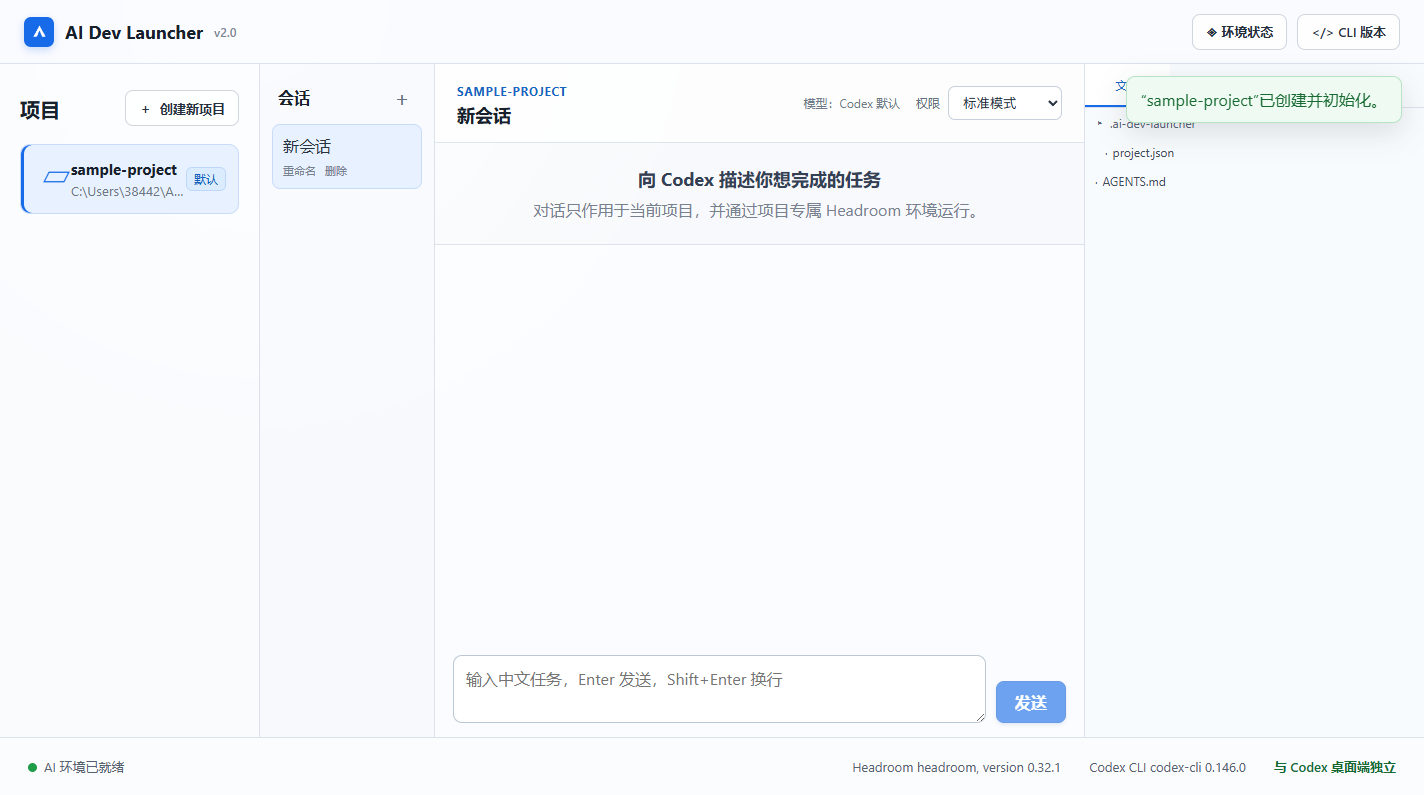
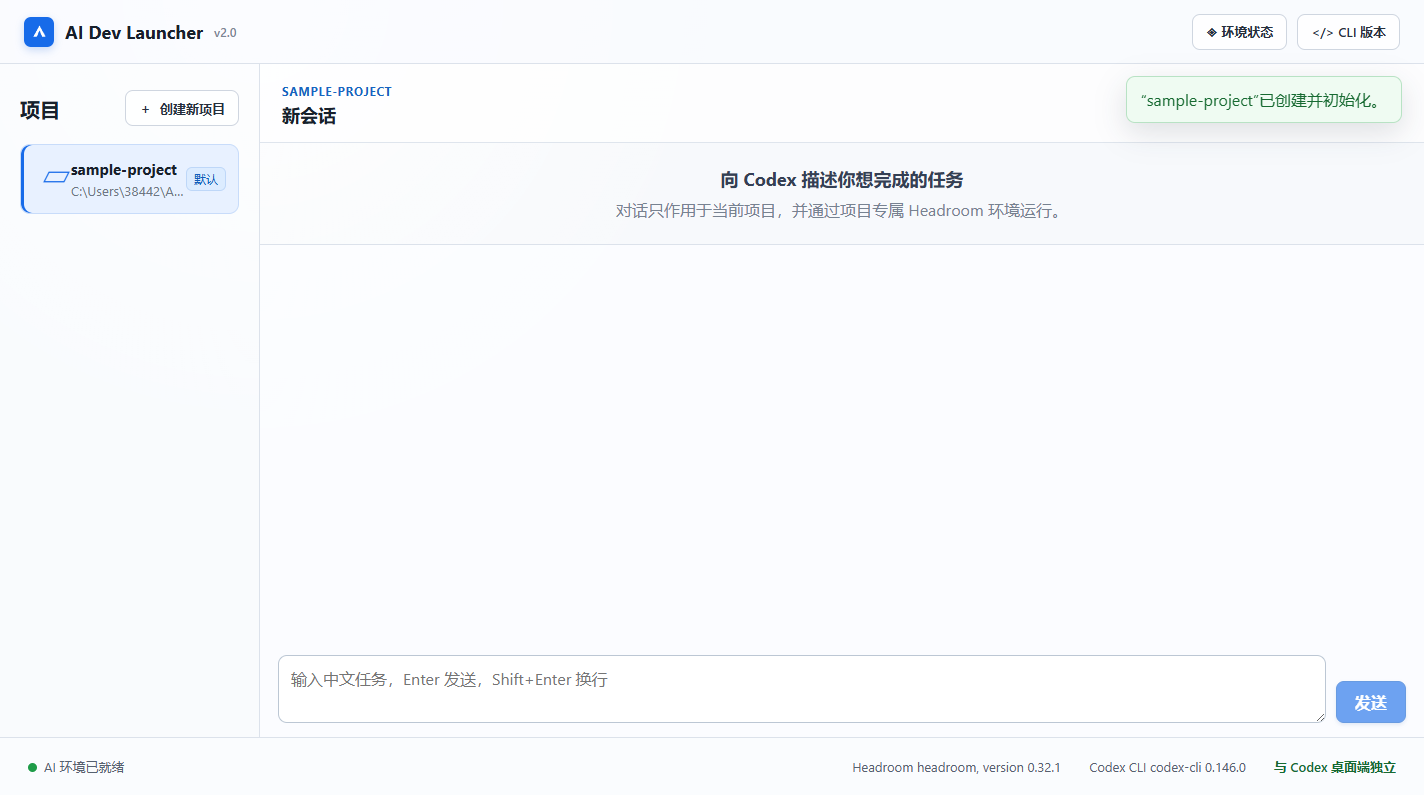
refactor: simplify v2 conversation workspace

diff --git a/desktop/src/components/ChatWorkspace.vue b/desktop/src/components/ChatWorkspace.vue
@@ -1,7 +1,6 @@
 <script setup lang="ts">
 import { computed, onMounted, onUnmounted, ref, watch } from "vue";
 import type { ChatEvent, Project, RuntimeStatus } from "../types";
-import DeveloperPanel from "./DeveloperPanel.vue";
 
 type Permission = "standard" | "full";
 interface Message { id: string; role: "user" | "assistant" | "tool" | "status"; text: string; }
@@ -14,7 +13,6 @@ const permission = ref<Permission>("standard");
 const runningTask = ref<string | null>(null);
 const runningSessionId = ref<string | null>(null);
 const error = ref("");
-const developerPanel = ref<InstanceType<typeof DeveloperPanel> | null>(null);
 let dispose: (() => void) | undefined;
 const active = computed(() => sessions.value.find((item) => item.id === activeId.value) ?? null);
 const storageKey = computed(() => `ai-dev-launcher:sessions:${props.project.path}`);
@@ -26,8 +24,6 @@ function load(): void {
   if (!sessions.value.length) newSession(); else activeId.value = sessions.value[0].id;
 }
 function newSession(): void { const item: Session = { id: uid(), name: "新会话", messages: [], updatedAt: new Date().toISOString() }; sessions.value.unshift(item); activeId.value = item.id; save(); }
-function renameSession(session: Session): void { const name = window.prompt("重命名会话", session.name); if (name?.trim()) { session.name = name.trim(); save(); } }
-function deleteSession(session: Session): void { sessions.value = sessions.value.filter((item) => item.id !== session.id); if (!sessions.value.length) newSession(); else if (activeId.value === session.id) activeId.value = sessions.value[0].id; save(); }
 function appendTo(session: Session | null, role: Message["role"], text: string): void { if (!session) return; session.messages.push({ id: uid(), role, text }); session.updatedAt = new Date().toISOString(); save(); }
 function append(role: Message["role"], text: string): void { appendTo(active.value, role, text); }
 function eventText(event: Record<string, unknown>): string | null {
@@ -40,7 +36,7 @@ function handleEvent(payload: ChatEvent): void {
   if (!target) return;
   if (payload.type === "error") { error.value = payload.message ?? "Codex 运行失败"; return; }
   if (payload.type === "log" && payload.text) { appendTo(target, "status", payload.text); return; }
-  if (payload.type === "complete") { runningTask.value = null; runningSessionId.value = null; if (payload.exit_code !== 0) error.value = `Codex 已退出，代码 ${payload.exit_code}`; save(); void developerPanel.value?.refresh(); return; }
+  if (payload.type === "complete") { runningTask.value = null; runningSessionId.value = null; if (payload.exit_code !== 0) error.value = `Codex 已退出，代码 ${payload.exit_code}`; save(); return; }
   const event = payload.event ?? {};
   const type = String(event.type ?? "");
   if (type === "thread.started" && typeof event.thread_id === "string") target.codexSessionId = event.thread_id;
@@ -77,12 +73,11 @@ onUnmounted(() => dispose?.());
 
 <template>
   <section class="chat-workspace">
-    <aside class="session-sidebar"><div class="session-heading"><strong>会话</strong><button class="icon-button" title="新建会话" @click="newSession">＋</button></div><div class="session-list"><button v-for="session in sessions" :key="session.id" :class="{ active: session.id === activeId }" @click="activeId = session.id"><span>{{ session.name }}</span><small><i @click.stop="renameSession(session)">重命名</i><i @click.stop="deleteSession(session)">删除</i></small></button></div></aside>
     <div class="conversation"><header class="conversation-header"><div><span class="workspace-kicker">{{ project.name }}</span><h2>{{ active?.name }}</h2></div><div class="conversation-meta"><span>模型：Codex 默认</span><div class="permission-control"><label>权限<select v-model="permission" :disabled="!!runningTask"><option value="standard">标准模式</option><option value="full">完全访问</option></select></label></div></div></header>
       <div v-if="permission === 'full'" class="risk-banner">完全访问允许 Codex 操作项目外文件且不询问审批，请确认当前任务可信。</div>
       <div class="message-list" data-testid="message-list"><div v-if="!active?.messages.length" class="chat-empty"><strong>向 Codex 描述你想完成的任务</strong><span>对话只作用于当前项目，并通过项目专属 Headroom 环境运行。</span></div><article v-for="message in active?.messages ?? []" :key="message.id" :class="['message', message.role]"><span>{{ message.role === "user" ? "你" : message.role === "assistant" ? "Codex" : message.role === "tool" ? "工具" : "状态" }}</span><pre>{{ message.text }}</pre></article></div>
       <div v-if="error" class="chat-error">{{ error }}</div>
       <footer class="composer"><textarea v-model="prompt" data-testid="chat-prompt" placeholder="输入中文任务，Enter 发送，Shift+Enter 换行" @keydown.enter.exact.prevent="send"></textarea><button v-if="runningTask" class="button danger solid" data-testid="stop-chat" @click="stop">停止</button><button v-else class="button primary" data-testid="send-chat" :disabled="runtime?.status !== 'ready' || !prompt.trim()" @click="send">发送</button></footer>
-    </div><DeveloperPanel ref="developerPanel" :project="project" :headroom-port="runtime?.headroom_port" />
+    </div>
   </section>
 </template>

diff --git a/desktop/tests/App.test.ts b/desktop/tests/App.test.ts
@@ -116,16 +116,4 @@ describe("App v2 Phase 1", () => {
     view.unmount();
   });
 
-  it("runs PowerShell and shows Headroom savings", async () => {
-    vi.mocked(window.launcher.listProjects).mockResolvedValue({ projects: [project], default_project: "my-app" });
-    const view = await render();
-    clickButton(view.host, "终端"); await nextTick();
-    setInput(view.host.querySelector('[data-testid="terminal-command"]') as HTMLInputElement, "pwd"); await nextTick();
-    clickButton(view.host, "运行"); await flush();
-    expect(window.launcher.runTerminal).toHaveBeenCalledWith("my-app", "pwd");
-    expect(view.host.textContent).toContain("退出码 0");
-    clickButton(view.host, "节省"); await nextTick();
-    expect(view.host.textContent).toContain("1,200");
-    view.unmount();
-  });
 });

diff --git a/desktop/src/styles.css b/desktop/src/styles.css
@@ -228,7 +228,7 @@ h1, h2, p { margin-top: 0; }
 .toast.success { color: #176a32; background: #effbf2; border: 1px solid #b8e2c4; }
 .toast.error { color: #9c2424; background: #fff2f2; border: 1px solid #efb8b8; }
 
-.chat-workspace { min-width: 0; min-height: 0; display: grid; grid-template-columns: 175px minmax(360px,1fr) 340px; background: rgba(255,255,255,.42); }
+.chat-workspace { min-width: 0; min-height: 0; display: grid; grid-template-columns: minmax(0,1fr); background: rgba(255,255,255,.42); }
 .session-sidebar { min-width: 0; padding: 18px 12px; border-right: 1px solid #dce2eb; background: rgba(248,250,253,.75); }
 .session-heading { display: flex; align-items: center; justify-content: space-between; padding: 0 6px 12px; }
 .session-list { display: grid; gap: 5px; }

diff --git a/tests/test_cli.py b/tests/test_cli.py
@@ -12,7 +12,7 @@ def test_version():
     result = runner.invoke(app, ["--version"])
 
     assert result.exit_code == 0
-    assert "AI Dev Launcher 2.0.1" in result.stdout
+    assert "AI Dev Launcher 2.0.2" in result.stdout
 
 
 def test_no_args_shows_help():

diff --git a/src/ai_dev_launcher/__init__.py b/src/ai_dev_launcher/__init__.py
@@ -1,3 +1,3 @@
 """AI Dev Launcher."""
 
-__version__ = "2.0.1"
+__version__ = "2.0.2"

diff --git a/RELEASE_NOTES_2.0.2.md b/RELEASE_NOTES_2.0.2.md
@@ -1,0 +1,10 @@
+# AI Dev Launcher v2.0.2
+
+本次更新精简了项目工作区界面：
+
+- 移除左侧会话管理栏，让对话区直接占用主要空间。
+- 移除右侧文件、改动、终端和节省统计面板。
+- 保留项目列表、Codex 对话、权限选择和运行状态。
+- 会话仍会按项目自动保存和恢复，无需用户额外配置。
+- 保持 AI Dev Launcher 与 Codex 桌面端相互独立。
+
